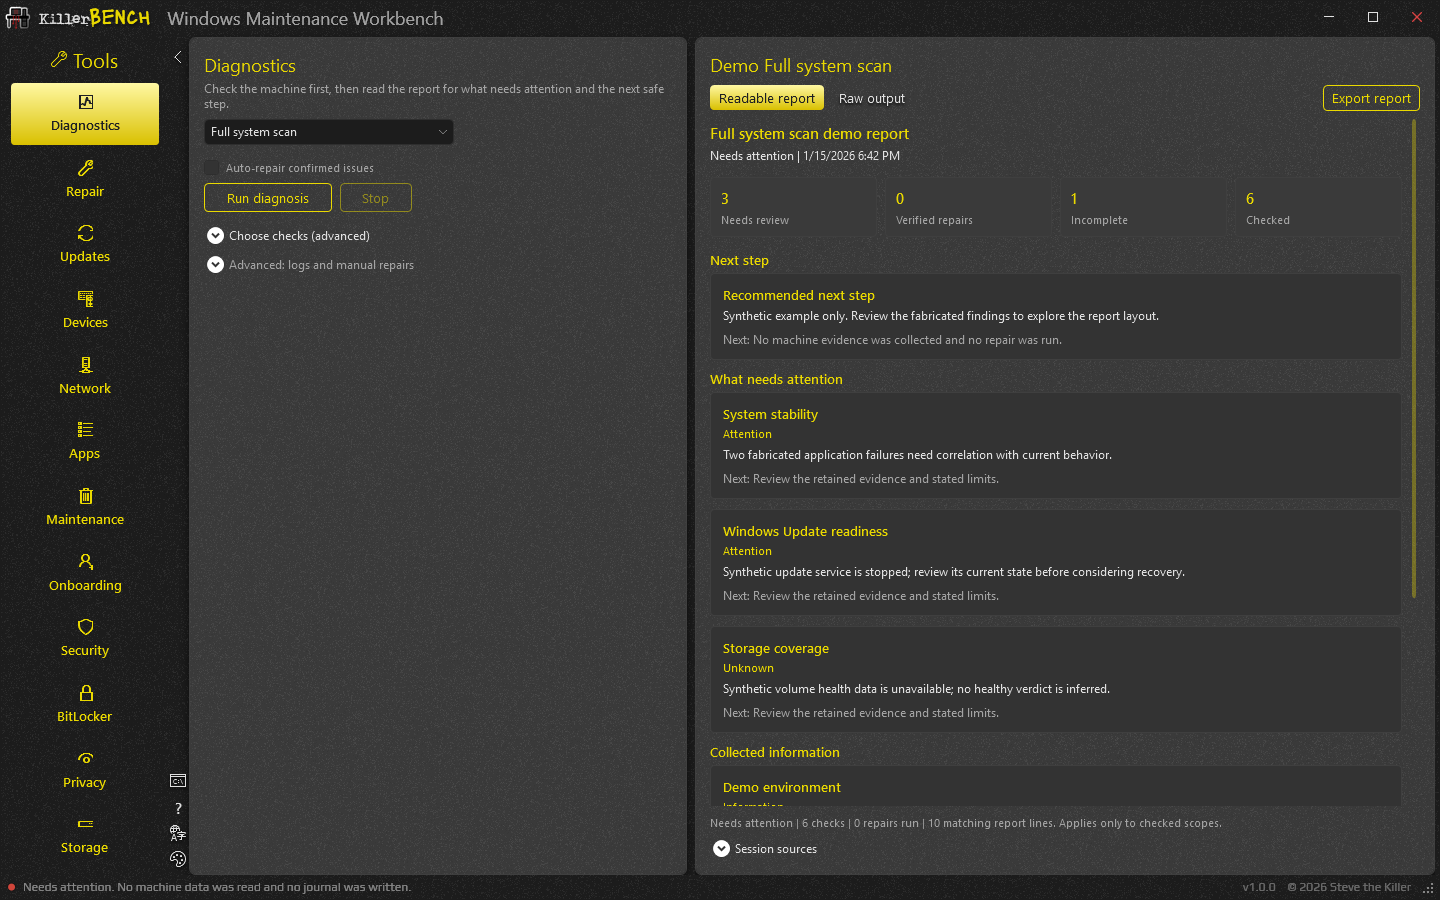
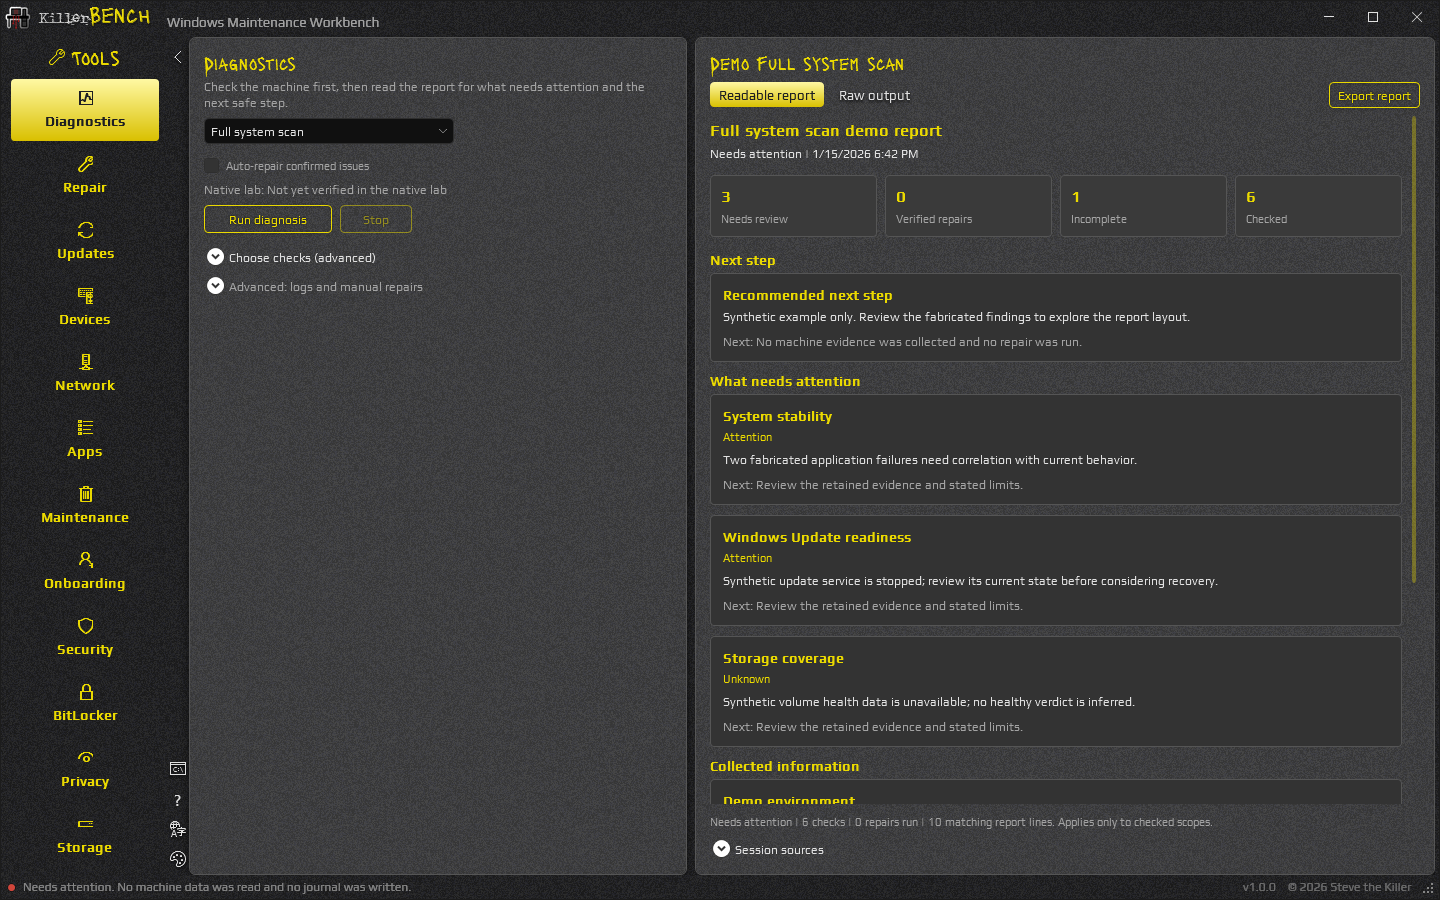
v1.0.0: Render all twelve landing screenshots off-screen with their captioned themes and zoom

diff --git a/Checks/DemoScreenshotChecks.cs b/Checks/DemoScreenshotChecks.cs
@@ -14,7 +14,7 @@ internal static class DemoScreenshotChecks
         IsolatedDesktop.Verify();
         CultureInfo.CurrentCulture = CultureInfo.GetCultureInfo("en-US");
         CultureInfo.CurrentUICulture = CultureInfo.GetCultureInfo("en-US");
-        var application = new Application();
+        var application = new Application { ShutdownMode = ShutdownMode.OnExplicitShutdown };
         SynchronizationContext.SetSynchronizationContext(
             new System.Windows.Threading.DispatcherSynchronizationContext(application.Dispatcher));
         application.Resources.MergedDictionaries.Add(new ResourceDictionary
@@ -31,23 +31,68 @@ internal static class DemoScreenshotChecks
         typeof(KillerBench.App).GetProperty("DemoMode")!.SetValue(null, true);
         typeof(KillerBench.App).GetProperty("ScreenshotMode")!.SetValue(null, true);
 
-        string output = Path.Combine(Path.GetTempPath(), "KillerBench-demo-screenshots-" + Guid.NewGuid().ToString("N"));
-        Directory.CreateDirectory(output);
+        KillerBench.Services.ThemeManager.GetSetting = _ => null;
+        KillerBench.Services.ThemeManager.SetSetting = (_, _) => { };
+
+        string output = Path.GetFullPath(Path.Combine(AppContext.BaseDirectory, "..", "..", "..", "..", "bench-landing", "screenshots"));
+        Require(Directory.Exists(output), "Landing screenshot folder exists: " + output);
+        var dark = KillerBench.Services.Theme.Dark;
+        var light = KillerBench.Services.Theme.Light;
+        var black = KillerBench.Services.Theme.Black;
+        var A = (KillerBench.Services.Accent a) => (KillerBench.Services.Accent?)a;
+        var shots = new Shot[]
+        {
+            new("01.png", WorkflowKind.CommonProblems, dark, A(KillerBench.Services.Accent.Yellow)),
+            new("02.png", WorkflowKind.WindowsUpdate, KillerBench.Services.Theme.Delirium, null),
+            new("03.png", WorkflowKind.Network, light, A(KillerBench.Services.Accent.Orange), Grain: false),
+            new("04.png", WorkflowKind.Printing, KillerBench.Services.Theme.SE98, null),
+            new("05.png", WorkflowKind.CoreWindowsServices, KillerBench.Services.Theme.Malaise, null, Scale: 1.1, Repair: true),
+            new("06.png", WorkflowKind.CommonProblems, black, A(KillerBench.Services.Accent.Teal), Raw: true),
+            new("07.png", WorkflowKind.Defender, KillerBench.Services.Theme.Sepulchre, null, Collapse: true),
+            new("08.png", WorkflowKind.Depot, KillerBench.Services.Theme.Mourning, null),
+            new("09.png", WorkflowKind.Storage, KillerBench.Services.Theme.Ectoplasm, null, Scale: 0.9),
+            new("10.png", WorkflowKind.BitLocker, light, A(KillerBench.Services.Accent.Green), Grain: false),
+            new("11.png", WorkflowKind.CommonProblems, dark, A(KillerBench.Services.Accent.Blue), Shortcuts: true),
+            new("12.png", WorkflowKind.Certificates, KillerBench.Services.Theme.Greed, null, Scale: 1.2)
+        };
+        foreach (var shot in shots) RenderShot(shot, output);
+        KillerBench.Services.ThemeManager.Apply(dark);
+        Console.WriteLine("PASS: twelve synthetic screenshots rendered on an isolated desktop: " + output);
+        application.Shutdown();
+        return 0;
+    }
+
+    private sealed record Shot(string File, WorkflowKind Kind, KillerBench.Services.Theme Theme, KillerBench.Services.Accent? Accent,
+        double Scale = 1, bool Grain = true, bool Raw = false, bool Collapse = false, bool Shortcuts = false, bool Repair = false);
+
+    private static readonly BindingFlags Private = BindingFlags.Instance | BindingFlags.NonPublic;
+
+    private static void Call(object target, string name, params object?[] args) =>
+        (target.GetType().GetMethod(name, Private) ?? throw new InvalidOperationException("Missing " + name)).Invoke(target, args);
+
+    private static void RenderShot(Shot shot, string output)
+    {
+        if (shot.Accent is { } accent) KillerBench.Services.ThemeManager.ApplyAccent(shot.Theme, accent);
+        KillerBench.Services.ThemeManager.Apply(shot.Theme);
         var window = new KillerBench.Shell.MainWindow
         {
             WindowStartupLocation = WindowStartupLocation.Manual,
             ShowActivated = false,
             ShowInTaskbar = false,
             Left = SystemParameters.VirtualScreenLeft - 2000,
-            Top = SystemParameters.VirtualScreenTop
+            Top = SystemParameters.VirtualScreenTop,
+            Width = 1440,
+            Height = 900,
+            MaxWidth = 1440,
+            MaxHeight = 900
         };
+        bool grainToggled = false;
         try
         {
             window.Show();
-            var run = typeof(KillerBench.Shell.MainWindow).GetMethod("RunDemoWorkflowAsync", BindingFlags.Instance | BindingFlags.NonPublic)
-                ?? throw new InvalidOperationException("Missing demo workflow entry point.");
-            var showRawOutput = typeof(KillerBench.Shell.MainWindow).GetMethod("ShowRawOutput", BindingFlags.Instance | BindingFlags.NonPublic)
-                ?? throw new InvalidOperationException("Missing raw output view.");
+            window.Width = 1440;
+            window.Height = 900;
+            Settle(window);
             var workflowPicker = (ComboBox)window.FindName("MainWorkflow");
             var raw = (TextBox)window.FindName("EvidenceBox");
             var report = (StackPanel)window.FindName("ReportContent");
@@ -56,42 +101,52 @@ internal static class DemoScreenshotChecks
                 window.FindName("ZoomViewport") is Grid { IsHitTestVisible: false } && !window.AllowDrop,
                 "Screenshot launch opens a finished, read-only synthetic report");
 
-            foreach ((WorkflowKind kind, string fileName) in new[]
+            if (!shot.Grain) { Call(window, "ToggleFilmGrain"); grainToggled = true; }
+            if (shot.Scale != 1) Call(window, "ApplyAppScale", shot.Scale);
+            if (shot.Collapse)
             {
-                (WorkflowKind.CommonProblems, "full-system-scan.png"),
-                (WorkflowKind.WindowsUpdate, "windows-update.png"),
-                (WorkflowKind.Network, "network.png"),
-                (WorkflowKind.Printing, "printing.png")
-            })
-            {
-                workflowPicker.SelectedItem = WorkflowCatalog.All.Single(item => item.Kind == kind);
-                var task = (Task?)run.Invoke(window, [kind, false, true])
-                    ?? throw new InvalidOperationException("Demo workflow did not start.");
-                Require(task.IsCompleted, "Screenshot fixture completes without live progress or providers");
-                task.GetAwaiter().GetResult();
-                window.UpdateLayout();
-                RenderedTypographyChecks.VerifySubtitle(window);
-                Require(raw.Text.Contains(DemoWorkflow.MachineName, StringComparison.Ordinal) &&
-                    !raw.Text.Contains(Environment.MachineName, StringComparison.OrdinalIgnoreCase) &&
-                    !raw.Text.Contains("Starting live checks", StringComparison.Ordinal),
-                    "Raw demo output contains only the fictional machine");
-                Require(report.Children[0] is TextBlock heading && heading.Text.Contains("demo report", StringComparison.Ordinal),
-                    "Readable report identifies the synthetic demonstration");
-                Capture(window, Path.Combine(output, fileName));
-                if (kind != WorkflowKind.CommonProblems) continue;
-                showRawOutput.Invoke(window, []);
-                window.UpdateLayout();
-                Capture(window, Path.Combine(output, "raw-output.png"));
-                ((Button)window.FindName("ReportViewButton")).RaiseEvent(new RoutedEventArgs(Button.ClickEvent));
+                Call(window, "CollapseSidebar");
+                var left = (FrameworkElement)window.FindName("LeftPanel");
+                left.BeginAnimation(FrameworkElement.WidthProperty, null);
+                left.Width = 0;
             }
+            Settle(window);
 
-            Console.WriteLine("PASS: five synthetic screenshots rendered on an isolated desktop: " + output);
-            return 0;
+            workflowPicker.SelectedItem = WorkflowCatalog.All.Single(item => item.Kind == shot.Kind);
+            var run = typeof(KillerBench.Shell.MainWindow).GetMethod("RunDemoWorkflowAsync", Private)
+                ?? throw new InvalidOperationException("Missing demo workflow entry point.");
+            var task = (Task?)run.Invoke(window, [shot.Kind, shot.Repair, true])
+                ?? throw new InvalidOperationException("Demo workflow did not start.");
+            Require(task.IsCompleted, "Screenshot fixture completes without live progress or providers");
+            task.GetAwaiter().GetResult();
+            Settle(window);
+            RenderedTypographyChecks.VerifySubtitle(window);
+            Require(raw.Text.Contains(DemoWorkflow.MachineName, StringComparison.Ordinal) &&
+                !raw.Text.Contains(Environment.MachineName, StringComparison.OrdinalIgnoreCase) &&
+                !raw.Text.Contains("Starting live checks", StringComparison.Ordinal),
+                "Raw demo output contains only the fictional machine");
+            Require(report.Children[0] is TextBlock heading && heading.Text.Contains("demo report", StringComparison.Ordinal),
+                "Readable report identifies the synthetic demonstration");
+            if (shot.Raw) Call(window, "ShowRawOutput");
+            if (shot.Shortcuts) Call(window, "OnShortcuts", window, new RoutedEventArgs());
+            Settle(window);
+            Require(Math.Abs(window.ActualWidth - 1440) < 0.5 && Math.Abs(window.ActualHeight - 900) < 0.5,
+                "Screenshot window is exactly 1440 by 900, was " + window.ActualWidth + "x" + window.ActualHeight);
+            Capture(window, Path.Combine(output, shot.File));
         }
         finally
         {
+            if (grainToggled) Call(window, "ToggleFilmGrain");
             window.Close();
-            application.Shutdown();
+        }
+    }
+
+    private static void Settle(Window window)
+    {
+        for (int i = 0; i < 3; i++)
+        {
+            window.Dispatcher.Invoke(() => { }, System.Windows.Threading.DispatcherPriority.ApplicationIdle);
+            window.UpdateLayout();
         }
     }
 

diff --git a/Engine/Workflows/DemoWorkflow.cs b/Engine/Workflows/DemoWorkflow.cs
@@ -86,6 +86,55 @@ public static class DemoWorkflow
             new("Default printer", CheckState.Information, "One fabricated default queue is configured; no printer setting changed."),
             new("Physical output", CheckState.Unknown, "A demonstration cannot verify paper output or device hardware.")
         ],
+        WorkflowKind.CoreWindowsServices =>
+        [
+            new("Windows Event Log", CheckState.Clear, "The synthetic EventLog service is running with automatic start."),
+            new("Cryptographic Services", CheckState.Attention, "The fabricated CryptSvc service is stopped although its start type is automatic.", RepairKind.CryptographicServices),
+            new("Remote Procedure Call", CheckState.Clear, "The synthetic RPC endpoint mapper and DCOM launcher are running."),
+            new("Windows Management Instrumentation", CheckState.Information, "The fabricated WMI repository was verified as consistent last week."),
+            new("Service dependencies", CheckState.Unknown, "One synthetic dependent service could not be queried, so dependency coverage is incomplete.")
+        ],
+        WorkflowKind.Defender =>
+        [
+            new("Real-time protection", CheckState.Clear, "Synthetic real-time protection is enabled and reporting normally."),
+            new("Security intelligence", CheckState.Attention, "The fabricated definitions are nine days old; the last update attempt failed."),
+            new("Last quick scan", CheckState.Information, "A synthetic quick scan completed three days ago with no detections."),
+            new("Tamper protection", CheckState.Clear, "Synthetic tamper protection is on and managed locally."),
+            new("Third-party antivirus", CheckState.Unknown, "The fabricated Security Center inventory is incomplete; another provider cannot be ruled out.")
+        ],
+        WorkflowKind.Depot =>
+        [
+            new("Browsers", CheckState.Information, "Two fabricated browsers are selected; one is already registered on the demo workstation."),
+            new("Productivity applications", CheckState.Attention, "The selected office suite has no matching Click-to-Run registration on the fabricated workstation."),
+            new("Communication applications", CheckState.Information, "One synthetic meeting client is selected and not yet present."),
+            new("Configuration: power and sleep", CheckState.Information, "The selected group would change synthetic sleep timeouts; it routes to a separately guarded workflow."),
+            new("Configuration: privacy defaults", CheckState.Clear, "The fabricated privacy settings already match the selected group."),
+            new("Provisioning boundary", CheckState.Information, "This review downloads, installs and changes nothing.")
+        ],
+        WorkflowKind.Storage =>
+        [
+            new("System volume free space", CheckState.Attention, "The fabricated C: volume has 11.8 GB free of 476 GB (2.5 percent)."),
+            new("Data volume", CheckState.Clear, "The synthetic D: volume has 612 GB free of 931 GB."),
+            new("Disk health", CheckState.Unknown, "The fabricated reliability counters are unavailable; no healthy verdict is inferred."),
+            new("File system state", CheckState.Clear, "No synthetic volume is marked dirty."),
+            new("Largest folders", CheckState.Information, "Synthetic user downloads and a retained update cache account for 64 GB.")
+        ],
+        WorkflowKind.BitLocker =>
+        [
+            new("Operating system volume", CheckState.Attention, "Protection on the fabricated C: volume is suspended until the next restart."),
+            new("Key protectors", CheckState.Information, "The synthetic volume has TPM and numerical password protectors. No recovery key is present in this fixture."),
+            new("Encryption method", CheckState.Clear, "The fabricated volume uses XTS-AES 128 and is fully encrypted."),
+            new("Fixed data volume", CheckState.Clear, "The synthetic D: volume is protected with automatic unlock."),
+            new("Recovery key backup", CheckState.Unknown, "Directory backup of the fabricated recovery password cannot be confirmed from the demo.")
+        ],
+        WorkflowKind.Certificates =>
+        [
+            new("Expiring soon", CheckState.Attention, "The fabricated client authentication certificate CN=demo-vpn expires in 12 days."),
+            new("Machine personal store", CheckState.Clear, "Four synthetic machine certificates are valid for more than 90 days."),
+            new("User personal store", CheckState.Information, "One synthetic code-signing certificate expires in 74 days."),
+            new("Expired certificates", CheckState.Information, "Two fabricated expired certificates remain in the user store; nothing was removed."),
+            new("Private key access", CheckState.Unknown, "Key accessibility for one synthetic certificate could not be confirmed.")
+        ],
         _ => [new(WorkflowCatalog.All.Single(item => item.Kind == kind).Title, CheckState.Attention,
             Scenario(kind), Evidence: SyntheticEvidence(kind))]
     };
